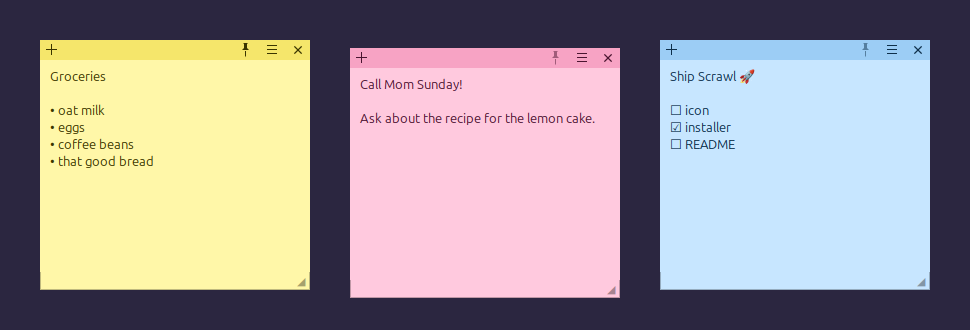
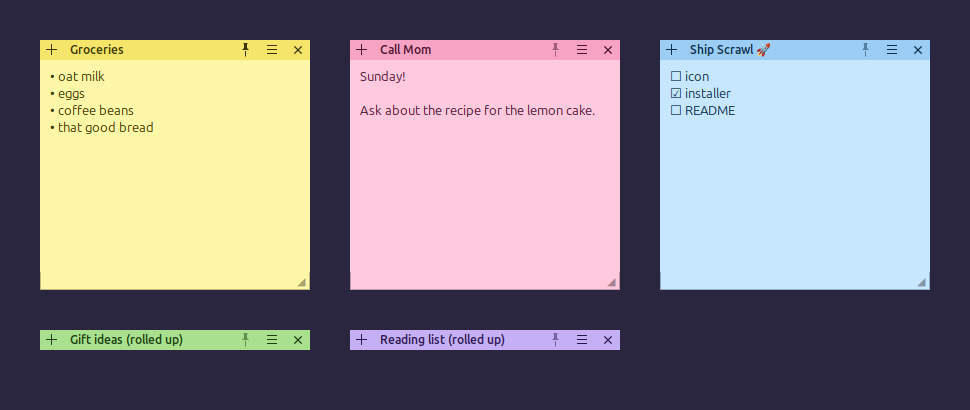
Update README and screenshot for titles, roll-up and snapping

diff --git a/README.md b/README.md
@@ -7,9 +7,11 @@ Simple sticky notes for your Linux desktop. Each note is its own window you can 
 ## Features
 
 - Unlimited notes, each in its own borderless window
+- Name your notes with a title, and double-click the header to roll a note up to just its title bar
+- Snaps to screen edges and corners (no accidental full-screen tiling)
 - 7 pastel colors and adjustable text size
 - "Keep on top" pin
-- Auto-saves text, position, size, color and pin state
+- Auto-saves text, title, position, size, color, pin and rolled-up state, and saves instantly on logout or shutdown
 - Single instance: launching again brings your notes forward
 - Optional start at login
 
@@ -36,12 +38,24 @@ Keep the folder in place: the `scrawl` command links to `scrawl.py`.
 | Action | How |
 | --- | --- |
 | New note | `+` button, `Ctrl+N`, or `scrawl --new` |
-| Move | Drag the colored header |
+| Move | Drag the colored header; notes snap to screen edges and corners |
+| Name a note | Click "Title" in the header (or right-click the header), type, press Enter |
+| Roll up / unroll | Double-click the header |
 | Resize | Drag the ◢ corner |
 | Color / text size | ☰ menu |
 | Delete note | ✕ button or `Ctrl+W` (asks first if it has text) |
 
 Tip: bind `scrawl --new` to a shortcut in Settings → Keyboard → Custom Shortcuts.
+
+## Troubleshooting
+
+**Scrawl shows up in search but not in the Show Applications grid (GNOME).** GNOME keeps a saved grid layout and doesn't always add new apps to it. Either reset the grid (this clears any custom ordering):
+
+```bash
+gsettings reset org.gnome.shell app-picker-layout
+```
+
+or pin Scrawl to the dock from the search results (right-click, then Pin to Dock).
 
 ## Uninstall
 
